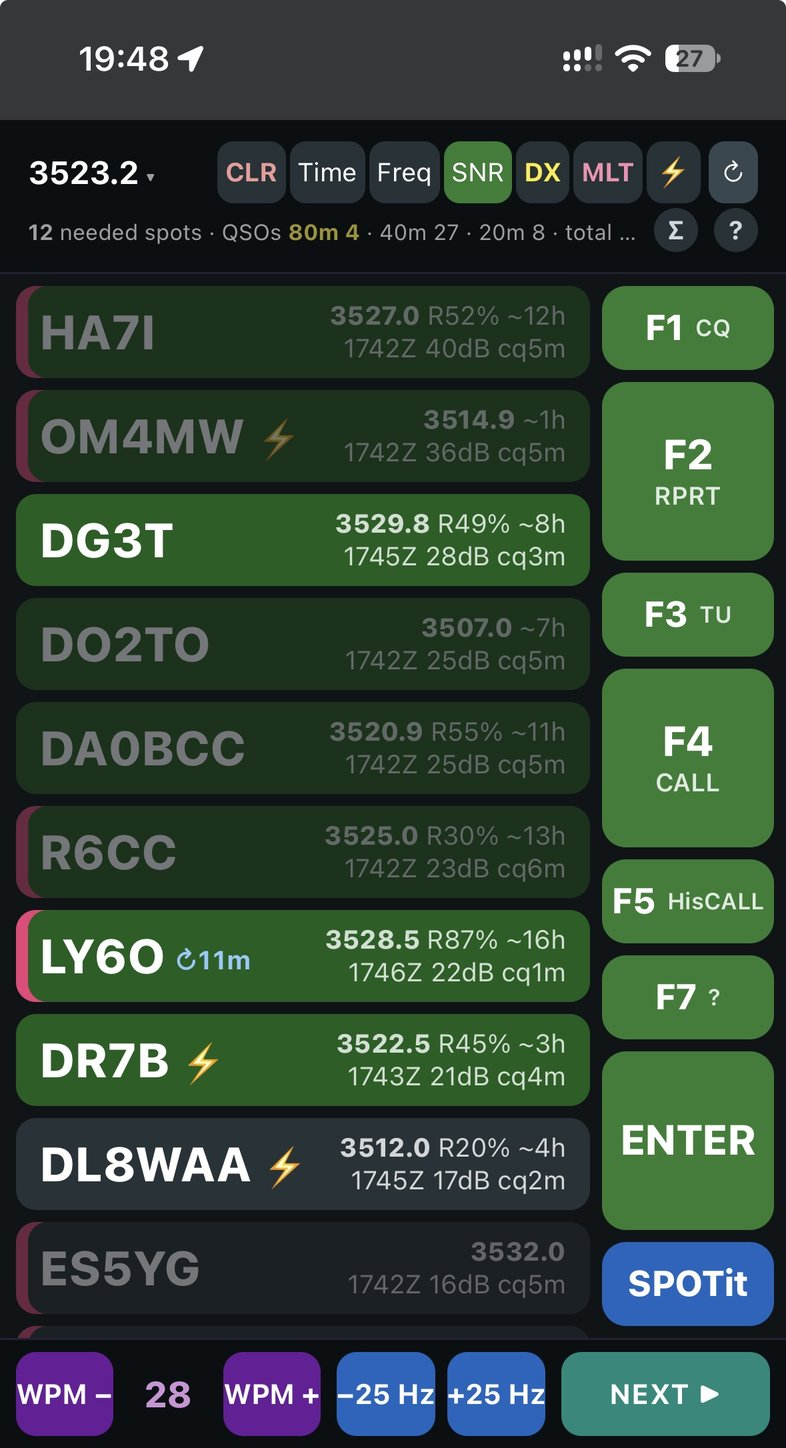
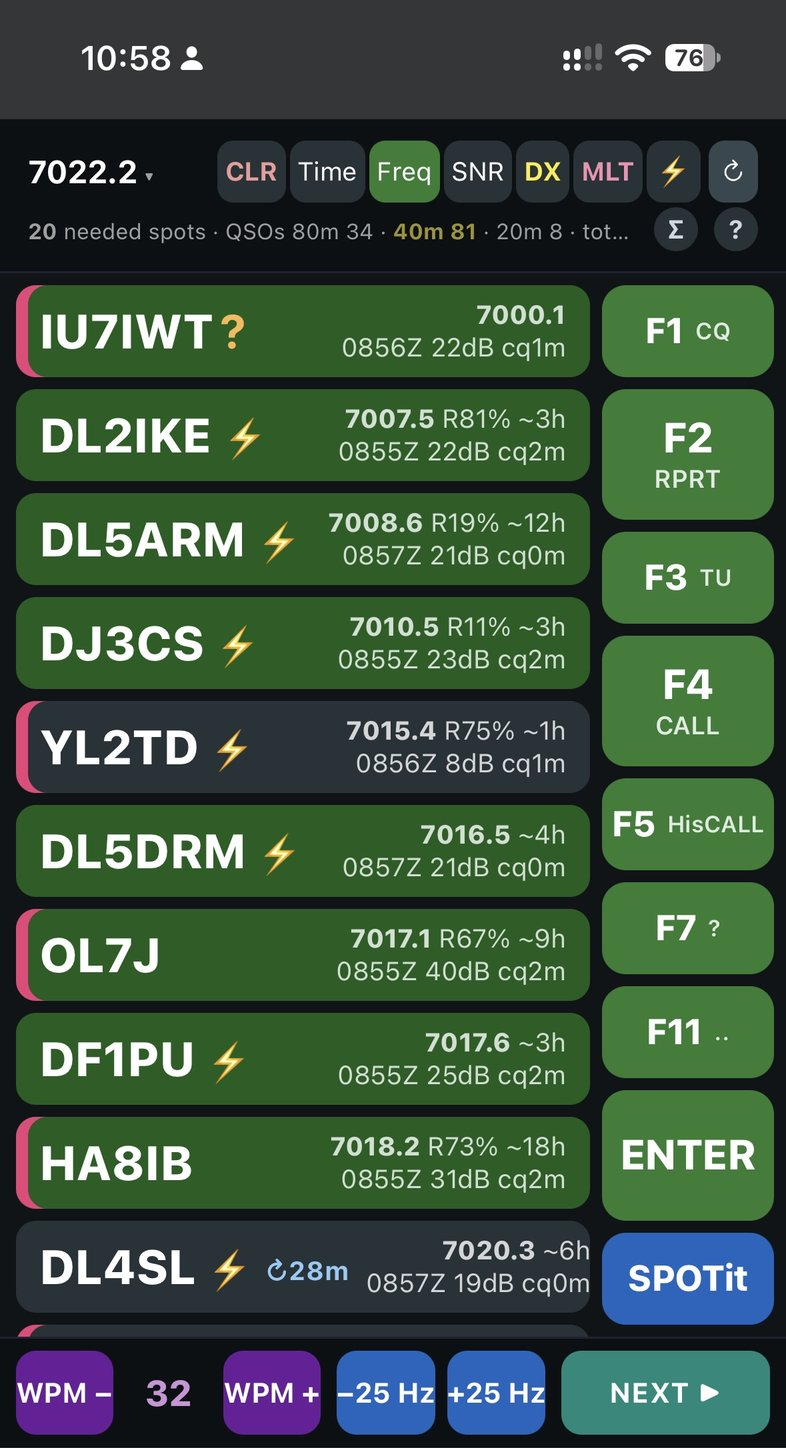
v0.7.86: new default keys (F1 CQ, F2, F3, ..., F11 ..), new phone picture
Claude-Session: https://claude.ai/code/session_011QcRYmyCsvSDNN3JSg7TCP

diff --git a/tests/test_config.py b/tests/test_config.py
@@ -43,8 +43,8 @@ class LoadConfigTests(unittest.TestCase):
         self.assertEqual(cfg.rbn_ft8_port, 7001)
         self.assertFalse(cfg.touch_view)
         self.assertEqual(cfg.fkeys, (
-            ("F1", "QRL?"), ("F3", "TU"), ("F2", "RPRT"), ("F4", "CALL"), ("F5", "HisCALL"),
-            ("F7", "?"), ("F11", "F11"), ("Enter", "Enter"), ("SpotIt", "SPOTit"),
+            ("F1", "CQ"), ("F2", "RPRT"), ("F3", "TU"), ("F4", "CALL"), ("F5", "HisCALL"),
+            ("F7", "?"), ("F11", ".."), ("Enter", "Enter"), ("SpotIt", "SPOTit"),
         ))
         self.assertEqual(cfg.fkeys_half, ("F1", "F3", "F5", "F7", "F11", "SPOTIT"))
         self.assertTrue(cfg.hide_beacons)
@@ -135,7 +135,7 @@ class FkeysUpgradeTests(unittest.TestCase):
             with open(p, "w", encoding="utf-8") as fh:
                 fh.write("[ui]\nfkeys = F2:RPRT F3:TU F4:CALL F5:HisCALL F7:? Enter\n")
             cfg = load_config(p)
-            self.assertEqual(cfg.fkeys[0], ("F1", "QRL?"))
+            self.assertEqual(cfg.fkeys[0], ("F1", "CQ"))
             self.assertIn(("SpotIt", "SPOTit"), cfg.fkeys)
             with open(p, "w", encoding="utf-8") as fh:
                 fh.write("[ui]\nfkeys = F4:CALL Enter\nfkeys_half =\n")
@@ -156,6 +156,11 @@ class FkeysUpgradeTests(unittest.TestCase):
             keys = [k for k, _ in cfg.fkeys]
             self.assertEqual(keys.index("F11"), keys.index("F7") + 1)      # right after F7
             self.assertIn("F11", cfg.fkeys_half)                          # same size as F7
+            self.assertEqual(cfg.fkeys[:3], (("F1", "CQ"), ("F2", "RPRT"), ("F3", "TU")))
+            with open(p, "w", encoding="utf-8") as fh:                     # v0.7.85's default
+                fh.write("[ui]\nfkeys = F1:QRL? F3:TU F2:RPRT F4:CALL F5:HisCALL F7:? F11 Enter "
+                         "SpotIt:SPOTit\n")
+            self.assertIn(("F11", ".."), load_config(p).fkeys)
             with open(p, "w", encoding="utf-8") as fh:
                 fh.write("[ui]\nfkeys_half = F1 F3\n")
             self.assertEqual(load_config(p).fkeys_half, ("F1", "F3"))     # yours: kept

diff --git a/pouncer/config.py b/pouncer/config.py
@@ -29,6 +29,8 @@ OLD_DEFAULT_FKEYS = (
      ("Enter", "Enter"), ("SpotIt", "SPOTit")),
     (("F1", "QRL?"), ("F3", "TU"), ("F2", "RPRT"), ("F4", "CALL"), ("F5", "HisCALL"), ("F7", "?"),
      ("Enter", "Enter"), ("SpotIt", "SPOTit")),
+    (("F1", "QRL?"), ("F3", "TU"), ("F2", "RPRT"), ("F4", "CALL"), ("F5", "HisCALL"), ("F7", "?"),
+     ("F11", "F11"), ("Enter", "Enter"), ("SpotIt", "SPOTit")),
 )
 # half-size key lists older POUNCers wrote as their default (upper-case)
 OLD_DEFAULT_FKEYS_HALF = (
@@ -116,8 +118,8 @@ class Config:
     worked_refresh_seconds: int = 10
 
     fkeys: tuple[tuple[str, str], ...] = (
-        ("F1", "QRL?"), ("F3", "TU"), ("F2", "RPRT"), ("F4", "CALL"), ("F5", "HisCALL"),
-        ("F7", "?"), ("F11", "F11"), ("Enter", "Enter"), ("SpotIt", "SPOTit"),
+        ("F1", "CQ"), ("F2", "RPRT"), ("F3", "TU"), ("F4", "CALL"), ("F5", "HisCALL"),
+        ("F7", "?"), ("F11", ".."), ("Enter", "Enter"), ("SpotIt", "SPOTit"),
     )
     fkeys_text: str = ""                 # the [ui] fkeys line as written (Settings)
     fkeys_half_text: str = ""

diff --git a/pouncer/web.py b/pouncer/web.py
@@ -1785,10 +1785,10 @@ page. The Windows window has its own two (View menu).</p>
 
 <h2>Keys on the right</h2>
 <dl>
-  <dt><span class="k green">F1</span> &hellip; <span class="k green">F7</span></dt>
-  <dd>Press that function key in N1MM - it <b>transmits</b> N1MM's message (F1 QRL?,
-    F2 report, F3 TU, F4 your call, F5 his call, F7 ?). The label on the key says which.
-    <b>Half-size</b> keys share one key's place: F1 + F3 at the top, F5, F7 and F11 under F4
+  <dt><span class="k green">F1</span> &hellip; <span class="k green">F11</span></dt>
+  <dd>Press that function key in N1MM - it <b>transmits</b> N1MM's message (F1 CQ,
+    F2 report, F3 TU, F4 your call, F5 his call, F7 ?, F11 ..). The label on the key says which.
+    <b>Half-size</b> keys: F1 and F3 around F2, F5, F7 and F11 under F4
     (the order and which are half size: <i>Settings &gt; Program</i>, or
     <code>[ui] fkeys</code> / <code>fkeys_half</code>).</dd>
   <dt><span class="k">SNR</span> held 1.3 s</dt>

diff --git a/pouncer/settings.py b/pouncer/settings.py
@@ -191,7 +191,7 @@ SETTINGS: list[dict] = [
     {"key": "ui.fkeys", "attr": "fkeys_text", "kind": "text", "live": False,
      "group": "Program", "label": "TX / log keys",
      "help": "In this order, KEY:label - F1-F12 (transmit), Enter (log), SpotIt (N1MM Alt+P). "
-             "e.g. F1:QRL? F3:TU F2:RPRT F4:CALL F5:HisCALL F7:? F11 Enter SpotIt:SPOTit"},
+             "e.g. F1:CQ F2:RPRT F3:TU F4:CALL F5:HisCALL F7:? F11:.. Enter SpotIt:SPOTit"},
     {"key": "ui.fkeys_half", "attr": "fkeys_half_text", "kind": "text", "live": False,
      "group": "Program", "label": "  ... half-size keys (phone)",
      "help": "Two half keys share one key's place, e.g. F1 F3 F5 F7 F11 SpotIt. Empty = all full size."},

diff --git a/pouncer/__init__.py b/pouncer/__init__.py
@@ -1,3 +1,3 @@
 """POUNCer - follow N1MM radio frequency and show S53WW RBN spots."""
 
-__version__ = "0.7.85"
+__version__ = "0.7.86"

diff --git a/README.md b/README.md
@@ -18,16 +18,17 @@ Windows (POUNCer.exe) and macOS; nothing to install - put the exe and
 > **S53ZO's** work.
 
 <p align="center"><img src="docs/phone-view.jpg" width="320"
-  alt="POUNCer phone page on 80 m: frequency with band menu, sort and filter buttons, spot tiles, the F-key column with half-size keys and SPOTit, WPM / Hz / NEXT at the bottom"></p>
+  alt="POUNCer phone page on 40 m: frequency with band menu, sort and filter buttons, spot tiles, the key column F1 CQ to F11 with half-size keys, ENTER and SPOTit, WPM / Hz / NEXT at the bottom"></p>
 
-*The phone page in a contest on 80 m: frequency 3523.2 (tap it for the band
-menu), CLR / Time / Freq / SNR / DX / MLT / ⚡ sorting, needed spots and QSOs
-per band under it. Tiles: green = strong (20 dB+), ⚡ = rare CQ, run % and
-hours from past logs (R52% ~12h), first heard, SNR and how long it has been
-calling (cq5m), pink stripe = new multiplier, ↻11m = you tapped it 11
-minutes ago, darker tile = not re-spotted for 5 minutes. On the right F1 CQ, F2 RPRT, F3 TU, F4 CALL, F5 HisCALL, F7 ?, ENTER
-and SPOTit (half-size keys for F1 / F3 / F5 / F7 / SPOTit); WPM / ±25 Hz /
-NEXT at the bottom.*
+*The phone page in a contest on 40 m: frequency 7022.2 (tap it for the band
+menu, also **ALL bands**), CLR / Time / Freq / SNR / DX / MLT / ⚡ sorting,
+needed spots and QSOs per band under it. Tiles sorted by frequency: green =
+strong (20 dB+), ⚡ = rare CQ, **?** = not in Super Check Partial, run % and
+hours from past logs (R81% ~3h), first heard, SNR and how long it has been
+calling (cq2m), pink stripe = new multiplier, ↻28m = you tapped it 28
+minutes ago. On the right the default keys: F1 CQ, F2 RPRT, F3 TU, F4 CALL,
+F5 HisCALL, F7 ?, F11 .., ENTER and SPOTit (half size: F1, F3, F5, F7, F11,
+SPOTit); WPM / ±25 Hz / NEXT at the bottom.*
 
 ## How it works
 
@@ -145,7 +146,7 @@ phone page, downloads) with their ports and message formats:
   usual. "15m list · on 20m ✕" in the small line (tap it to go back to the
   radio's band); once the radio changes band the list follows it again.
 * **TX / log buttons** - the main window and the phone page all
-  show buttons for `[ui] fkeys` (default `F1:QRL? F3:TU F2:RPRT F4:CALL F5:HisCALL F7:? F11 Enter SpotIt:SPOTit`; on the phone F1 + F3 (at the top) and F5, F7, F11 are half as tall and share one key's place each, SPOTit is half size under ENTER, `[ui] fkeys_half`; both in *Settings > Program*; a list an older POUNCer wrote unchanged is read as the new default; **SPOTit** = N1MM's Spot It, Alt+P: it spots the Entry Window call to the cluster, no TX). An F-key
+  show buttons for `[ui] fkeys` (default `F1:CQ F2:RPRT F3:TU F4:CALL F5:HisCALL F7:? F11:.. Enter SpotIt:SPOTit`; on the phone F1 + F3 (at the top) and F5, F7, F11 are half as tall and share one key's place each, SPOTit is half size under ENTER, `[ui] fkeys_half`; both in *Settings > Program*; a list an older POUNCer wrote unchanged is read as the new default; **SPOTit** = N1MM's Spot It, Alt+P: it spots the Entry Window call to the cluster, no TX). An F-key
   button presses that function key in the focused N1MM Entry Window, so N1MM
   sends its message - e.g. F4 normally sends `{MYCALL}`. Unlike tapping a spot,
   **F-keys transmit over the air**. The `Enter` button logs the current QSO in
@@ -816,7 +817,7 @@ All options live in `config.ini` and are documented there, line by line:
 | `alert_popup` | true | Window: pop-up when a rare CQ that is a new mult appears (click = QSY and call). |
 | `alert_sound` | false | Window: two beeps for the same alert. |
 | `max_age_minutes`, `fade_minutes` | 10, 5 | Drop spots older than this; phone tiles fade when not re-spotted. |
-| `fkeys` | F1 F3 F2 F4 F5 F7 F11 Enter SpotIt | TX/log buttons in the main window and phone page: `KEY[:label]` list (default `F1:QRL? F3:TU F2:RPRT F4:CALL F5:HisCALL F7:? F11 Enter SpotIt:SPOTit`). Each F-key **transmits** its N1MM message; `Enter` logs the QSO; `SpotIt` = N1MM Alt+P (Spot It, no TX). Empty = no buttons. |
+| `fkeys` | F1 F2 F3 F4 F5 F7 F11 Enter SpotIt | TX/log buttons in the main window and phone page: `KEY[:label]` list (default `F1:CQ F2:RPRT F3:TU F4:CALL F5:HisCALL F7:? F11:.. Enter SpotIt:SPOTit`). Each F-key **transmits** its N1MM message; `Enter` logs the QSO; `SpotIt` = N1MM Alt+P (Spot It, no TX). Empty = no buttons. |
 | `fkeys_half` | F1 F3 F5 F7 F11 SpotIt | Phone page: these keys are half as tall, so two share one key's place. Empty = all full size. |
 | `forward_fkeys` | true | F1-F12 pressed in POUNCer go to N1MM. |
 | `tune_step_hz` | 25 | Step of the −/+ Hz buttons. |

diff --git a/ARCHITECTURE.md b/ARCHITECTURE.md
@@ -348,7 +348,7 @@ serves the same needed spots as tap tiles. Page layout, top to bottom:
 The page sorts client-side (instant, works while polling). The server feed is
 capped at `WEB_MAX_SPOTS` (60) strongest-SNR spots.
 
-**TX / log buttons:** `[ui] fkeys` (default `F1:QRL? F3:TU F2:RPRT F4:CALL F5:HisCALL F7:? F11 Enter SpotIt:SPOTit`) renders the
+**TX / log buttons:** `[ui] fkeys` (default `F1:CQ F2:RPRT F3:TU F4:CALL F5:HisCALL F7:? F11:.. Enter SpotIt:SPOTit`) renders the
 same key bar in the main window and the phone page. Tapping one
 fetches `/api/key`, the request is pushed onto `_web_queue` as `("key", key)` and
 drained on the Tk tick like a QSY: `_press_key` focuses the Entry Window and
@@ -415,7 +415,7 @@ LAN/VPN-only and unauthenticated.
 | `max_age_minutes` | `10` | Drop spots older than this. |
 | `trigger` | `single` | `single` or `double` click to act. |
 | `touch_view` | `false` | Open the phone page in the default browser at startup. |
-| `fkeys` | `F1:QRL? F3:TU F2:RPRT F4:CALL F5:HisCALL F7:? F11 Enter SpotIt:SPOTit` | TX/log buttons (main/phone): `KEY[:label]` list, keys `F1`-`F12` (transmit) or `Enter` (logs); empty = no buttons. |
+| `fkeys` | `F1:CQ F2:RPRT F3:TU F4:CALL F5:HisCALL F7:? F11:.. Enter SpotIt:SPOTit` | TX/log buttons (main/phone): `KEY[:label]` list, keys `F1`-`F12` (transmit) or `Enter` (logs); empty = no buttons. |
 
 ### `[web]`
 

diff --git a/CHANGELOG.md b/CHANGELOG.md
@@ -1,5 +1,12 @@
 # POUNCer — Changelog
 
+## v0.7.86 — 2026-10-18 — new default keys
+
+- Default keys: `F1:CQ F2:RPRT F3:TU F4:CALL F5:HisCALL F7:? F11:.. Enter
+  SpotIt:SPOTit`, half size `F1 F3 F5 F7 F11 SpotIt`. A list an older
+  POUNCer wrote unchanged gets them by itself; a list you changed stays.
+- Docs: new phone page picture (40 m, the new keys).
+
 ## v0.7.85 — 2026-10-18 — F11 key
 
 - New **F11** key after F7, half size like F5 / F7 (window and phone). A key
